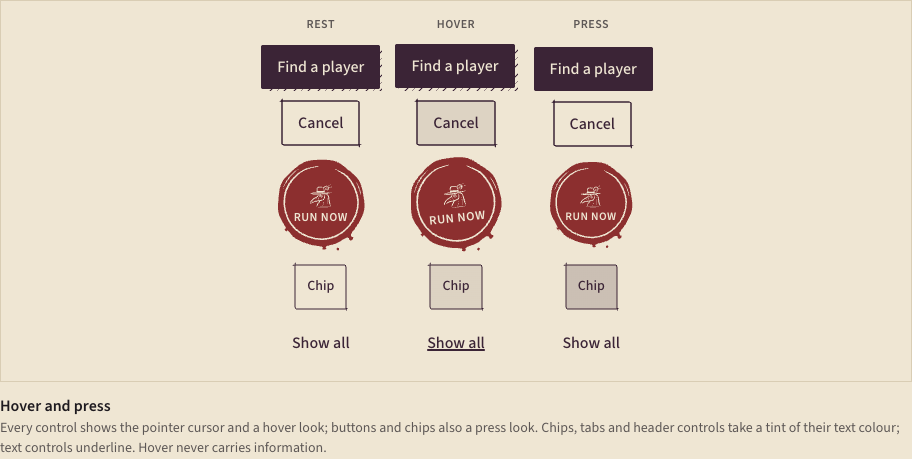
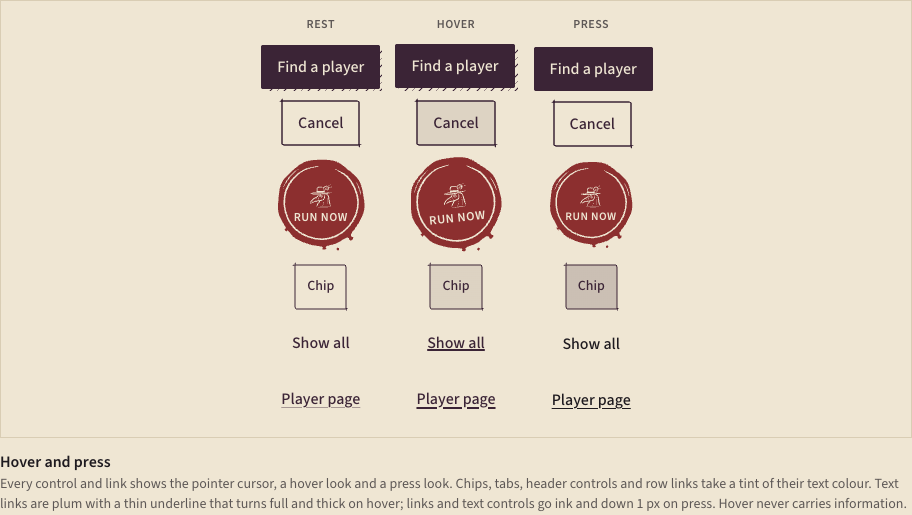
docs: link captures and handoff for the link style (#232)

diff --git a/docs/handoff/08zzzb-hover-cursor.md b/docs/handoff/08zzzb-hover-cursor.md
@@ -21,13 +21,45 @@
 - `docs/DESIGN.md` Components: the `button-secondary` line now names its hover and press looks. A new "Hover and press (issue 232)" entry states the rule (pointer cursor, hover and press state, default cursor when disabled), names the base rule, and lists which class each kind of control uses.
 - `docs/screenshots/08zzzb-*.png`: 27 Chrome captures at 1280 px, about 150 KB in total.
 
+Second part, after the owner's answer (2026-11-11): one link style, with hover and press.
+
+- `app/globals.css`: `.text-link`, next to `.text-button`.
+  - Rest: plum text with a 1 px underline, offset 3 px, in the text colour at 40 %. Visited looks the same.
+  - Hover, under `@media (hover: hover)`: the underline at full colour and 2 px.
+  - `.text-link-stretch::after` covers the whole card. It replaces the `after:absolute after:inset-0 after:content-['']` utilities on title links.
+  - Press: ink text, full-colour underline, and `position: relative; top: 1px`. The same press applies to `.text-button`. This rule is unlayered, at the end of the file, so it wins over a colour utility on the element. A stretched link stays `position: static` on press.
+  - `[data-state="hover" | "press"]` pins each state for /brand.
+- `lib/brand/components/TextLink.tsx` (new): wraps `next/link`. `stretch` makes the link cover its card.
+- Converted to `TextLink`:
+  - Breadcrumbs, the stretched titles in `StatTable`, `Leadership`, `PlayerAcrossEvents` and the player search results (`app/(pages)/players/page.tsx`).
+  - The player page's alliance links (2), the history pager links (2), the event alliance page's "History" link, the /admin last-run link, and the AdminShell nav.
+- `.text-link` class on in-page `#anchor` links and shared class constants:
+  - The `#anchor` links in `EventView`, `AcrossEvents` and the event alliance page.
+  - `EventCompare` `NAME` (stretched; `MemberCompare` uses it too), `PlayerCompare` `TITLE_LINK` and `MemberHistoryBody` `PLAYER`.
+  - `ErrorPage` `secondaryAction` and the ManualSection "Open" link.
+- Row and icon links now use `.tint-button`: the event list rows in the header menu, the wordmark (home) link, the Movers rows, the /admin runs rows, and the ⇄ swap link in `ComparePicker`. Their old `hover:bg-*` utilities are gone.
+- After this change no `hover:underline` is left in `app/` or `lib/`.
+- /brand "Hover and press" has a text-link row ("Player page") at rest, hover and press, and its caption covers links. Copy is in `lib/copy-brand-components.ts`.
+- `docs/DESIGN.md`:
+  - A new `text-link` component entry.
+  - The "Hover and press" entry now says every control, links included, has a hover and a press state.
+  - `.text-button` takes the link press.
+- `docs/screenshots/08zzzb-link-<kind>-{rest,hover,press}.png` for `breadcrumb`, `title-stretch`, `player-alliance`, `history-link`, `admin-nav` and `text-button`, plus a refreshed `08zzzb-brand-hover-and-press.png`.
+
 ## Decisions
 
 - Several controls the issue lists already used `buttonClass` on `dev`: ShowFirst, the MembersExplorer "Show all" button, PinSheet, ConfirmSheet, AdminActions, and ManualSection's sheet buttons. They already had the pointer cursor and the brand hover, so they did not change.
 - The tint uses `currentColor`. One class therefore serves plum-text chips on paper and paper-text header controls on plum, and the header looks the same as before (paper 10 % / 20 %, where it was `bg-paper/15` / `bg-paper/25`). On a Movers tab the tint is ink-coloured, because the tab text is ink.
 - Press on `.tint-button` is a deeper tint, not the 1 px push of `.frame-button`. A push would shift the Movers tab borders and the card heads.
 - Hover tints and underlines apply only under `@media (hover: hover)`. That matches Tailwind's `hover:` variant, which the header controls used before, so a tap on a phone leaves no tint. `.ink-button` and `.frame-button` keep their old unwrapped hover rules.
-- Text controls get an underline on hover and no separate press look, because they read as links. The issue asks for a press state only for "every control that looks like a button".
+- First part: text controls had a hover underline and no press look. The owner answered (2026-11-11) that link-like controls get a press state too, with one reusable link design. The second part does that.
+- Press colour is `--ink`. In light mode ink (#1e1a1f) is only a little darker than plum (#3b2436), so the visible press is mostly the 1 px drop and the full-colour underline. In dark mode ink (#eadfcb) is lighter than plum (#b48ba6), which raises the contrast.
+- The press shift is `position: relative; top: 1px`, not a transform. A transform does not move an inline link inside a sentence, such as a breadcrumb.
+- A stretched link (a title that covers its whole card) darkens on press but does not move. Moving it would make the link the containing block of its own `::after`, which would shrink the card's hit area under the pointer mid-press and could lose the click.
+- The press rule sits outside the CSS layers. Inside `@layer components` it would lose to utilities such as `text-plum` or `text-ink/80` that stay on some elements.
+- Whole-row links (event menu, Movers rows, /admin runs) and icon links (wordmark, ⇄) take `.tint-button`, not `.text-link`: they are not words in a line. The Movers rows were `hover:bg-plum/5`; their tint is now the ink text colour at 10 %.
+- The ManualSection "Open" link and the error page's secondary link were ink-coloured or underlined by hand. They now use the plum `text-link`, the one link look.
+- Title links in the ledger (alliance names), search results and leadership cards now carry the thin underline at rest. The owner asked for one link design everywhere, and an underline lets a link read as a link without colour.
 - `.text-button` underlines 2 px thick, so the footer "More" and the admin "Options" and "again", which are already underlined, still change on hover. Plain text links elsewhere keep `hover:underline`, which uses the font's default thickness.
 - Selects and their wrapping labels get the pointer cursor (item 1 of the issue) but no hover look. They are form fields, not button-like controls.
 - The ManualSection "again" button keeps `cursor-pointer` next to `disabled:cursor-wait`. The utility is needed so that the disabled state shows the wait cursor.
@@ -62,6 +94,15 @@
 - Hover captures, rest and hover for each kind (`docs/screenshots/08zzzb-<kind>-{rest,hover}.png`): `tint-copy-roster`, `tint-movers-tab`, `tint-members-chip`, `tint-members-chip-selected`, `tint-check-chip`, `tint-header-selector`, `details-summary`, `tint-card-head`, `text-summary`, `text-footer-more`, `primary`, `secondary`, `seal`. Also `08zzzb-brand-hover-and-press.png`.
 - Mobile at 360 px is unchanged. The script recorded every control's box (x, y, width, height) and the document height at 360 × 800 on this branch, then again with `dev`'s versions of the changed `app/` and `lib/` files checked out in the same worktree. Every page matched exactly ("differing 0", same `docHeight`) except `/brand`. /brand grows by the new "Hover and press" samples (docHeight 16693 → 17579; the controls after them move down). The 360 px run measured the history page with its cards closed.
 
+- Second part (one link style). Same local setup, recreated (Postgres on 54151, bridge on 54251, app on 3151 at `localhost`), with the same two daily reads. Then stopped and removed.
+  - `pnpm check`: exit 0. "All matched files use Prettier code style!", eslint and tsc clean, "Test Files 55 passed | 1 skipped (56)", "Tests 254 passed | 1 skipped (255)", "No schema changes, nothing to migrate", "i18n: 17 languages up to date with English". `origin/dev` had no new commits to merge. Every commit ran the lefthook pre-commit (secrets, prettier and eslint passed).
+  - Chrome 1280 px, on the same pages plus `/admin/runs`: every visible `a[href]`, button, summary, `[role=button]`, select and wrapping label, leaving out /brand's inert samples and the Next dev-tools button. For each one the script recorded its look class and `getComputedStyle(...).cursor`. It then compared colour, background, transform, `top`, and text-decoration line, thickness and colour at rest, on `hover()` and while the mouse is held down. The mouse is moved off before release, so nothing is clicked; no page navigated.
+  - Results:
+    - 408 controls, 256 of them links. Every link has a look class: 180 `text-link`, 76 `tint-button`. No link has none.
+    - Every enabled control shows `cursor: pointer`, a hover change and a press change. The exceptions are the six selects and labels with the cursor only, as in the first part; the four wax seals, which were hovered but not pressed; and the skip link, which cannot be hovered while screen-reader-only.
+    - By tag and look: `a:text-link` 180, `a:tint-button` 76, `summary:summary>tint-button` 50, `summary:tint-button` 39, `button:tint-button` 22, `summary:text-button` 12, `label:tint-button` 11, `button:ink-button` 5, `button:seal` 4, `button:frame-button` 3, `label:none` 3, `select:none` 3.
+  - 360 px: the box of every `a[href]`, button, summary, select and label and the document height, at 360 × 800, on this part's commit versus the commit before it. Every page matched exactly ("differing 0", same height), except /brand, which grows by the new link sample row and the longer caption (17579 → 17732 px).
+
 ## Open issues
 
 - Follow-up, not changed: `SealButton`'s hover and press transforms (Tailwind `hover:` and `active:`) still play on a disabled seal. Only the cursor is now default.
@@ -76,7 +117,11 @@ Owner must do first: merge this PR into `dev` (`Closes #232` closes the issue).
 Plan changes needed: none.
 
 <adjustments>
-- New interactive controls take their looks from the brand classes, not from `hover:` utilities: `buttonClass("primary" | "secondary")` for buttons and button-like links, `.tint-button` for chips, tabs, header controls and card-head summaries, `.text-button` for summaries or buttons that read as links. The pointer cursor comes from the base rule in `app/globals.css`; do not add `cursor-pointer`.
+- New interactive controls take their looks from the brand classes, not from `hover:` utilities:
+  - `buttonClass("primary" | "secondary")` for buttons and button-like links.
+  - `.tint-button` for chips, tabs, header controls, card-head summaries, and row or icon links.
+  - `.text-button` for summaries or buttons that read as links.
+  - `TextLink` (`lib/brand/components/TextLink.tsx`; `stretch` for a title that covers its card) or the `.text-link` class for every link that is words. Do not add `text-plum` or `underline` to a link by hand. The pointer cursor comes from the base rule in `app/globals.css`; do not add `cursor-pointer`.
 - A summary's framed Details control tints when the whole summary is hovered (`summary:hover > .tint-button`), so the control must stay a direct child of the `<summary>`.
 - Local captures: open the dev server at `localhost:<port>`, not `127.0.0.1`. With `127.0.0.1` the client does not hydrate and client-side controls (the PIN sheet) do nothing.
 - For member history captures, the seed leaves `daily_rosters` empty. Two `daily_reads` rows plus `daily_rosters` rows built from `alliance_snapshots` and `member_snapshots` are enough to get cards with "Copy for spreadsheet".
